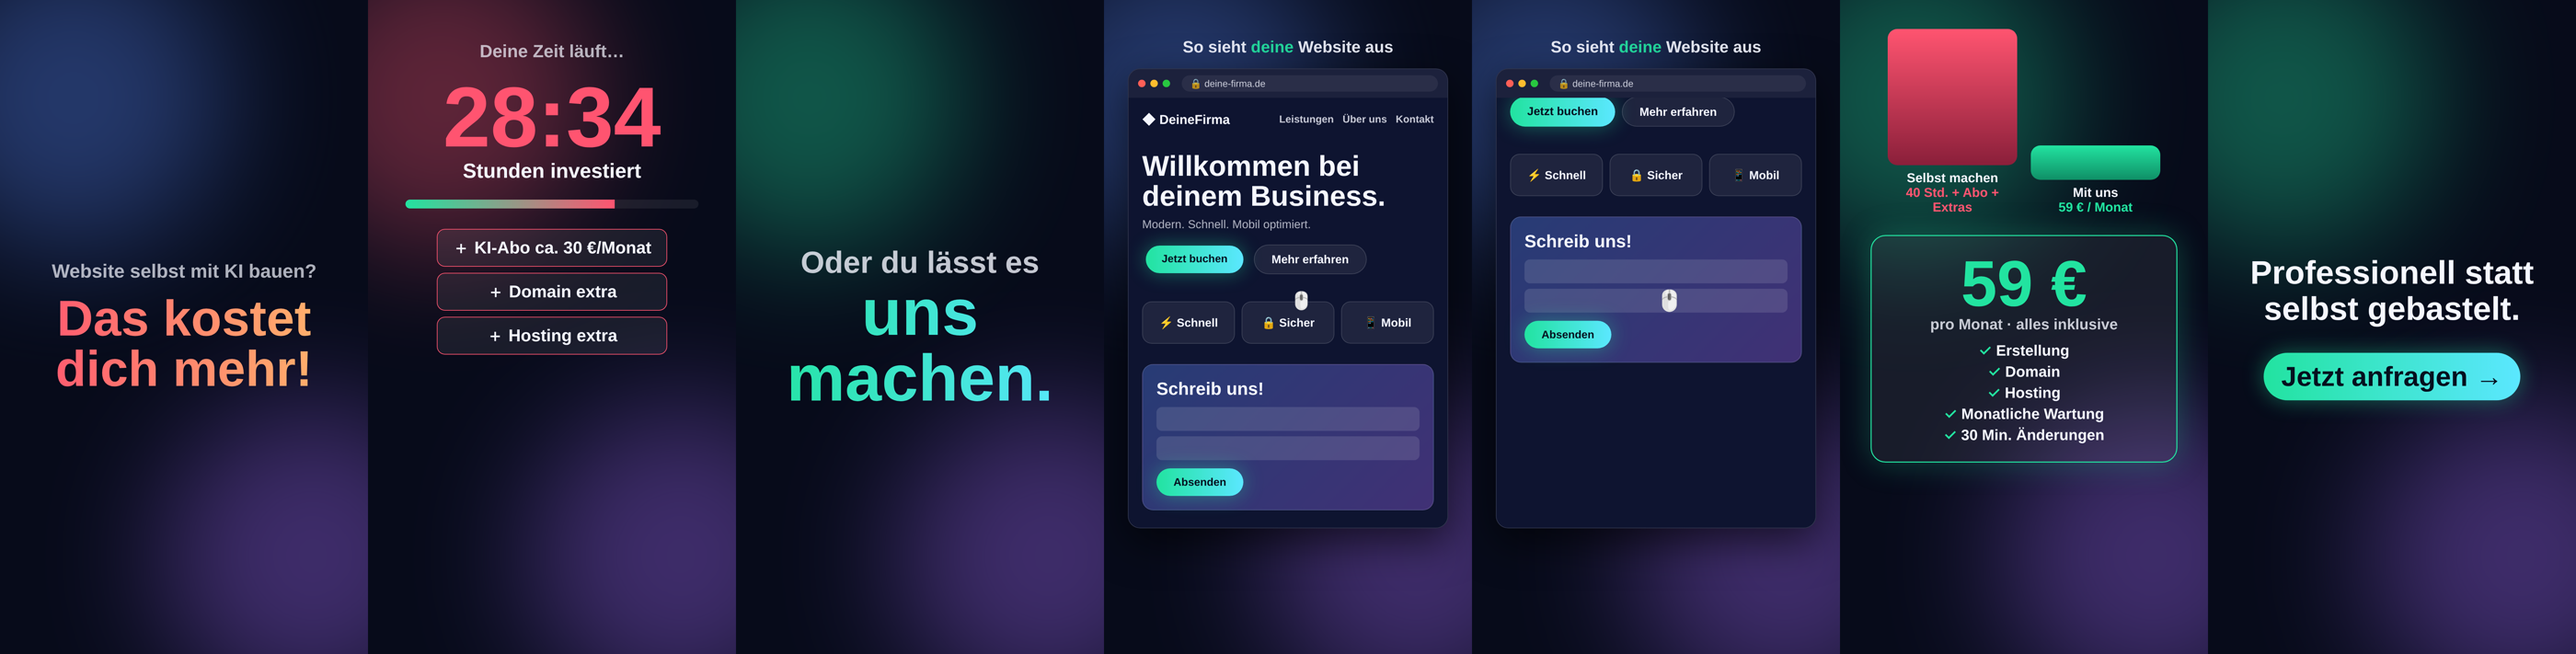
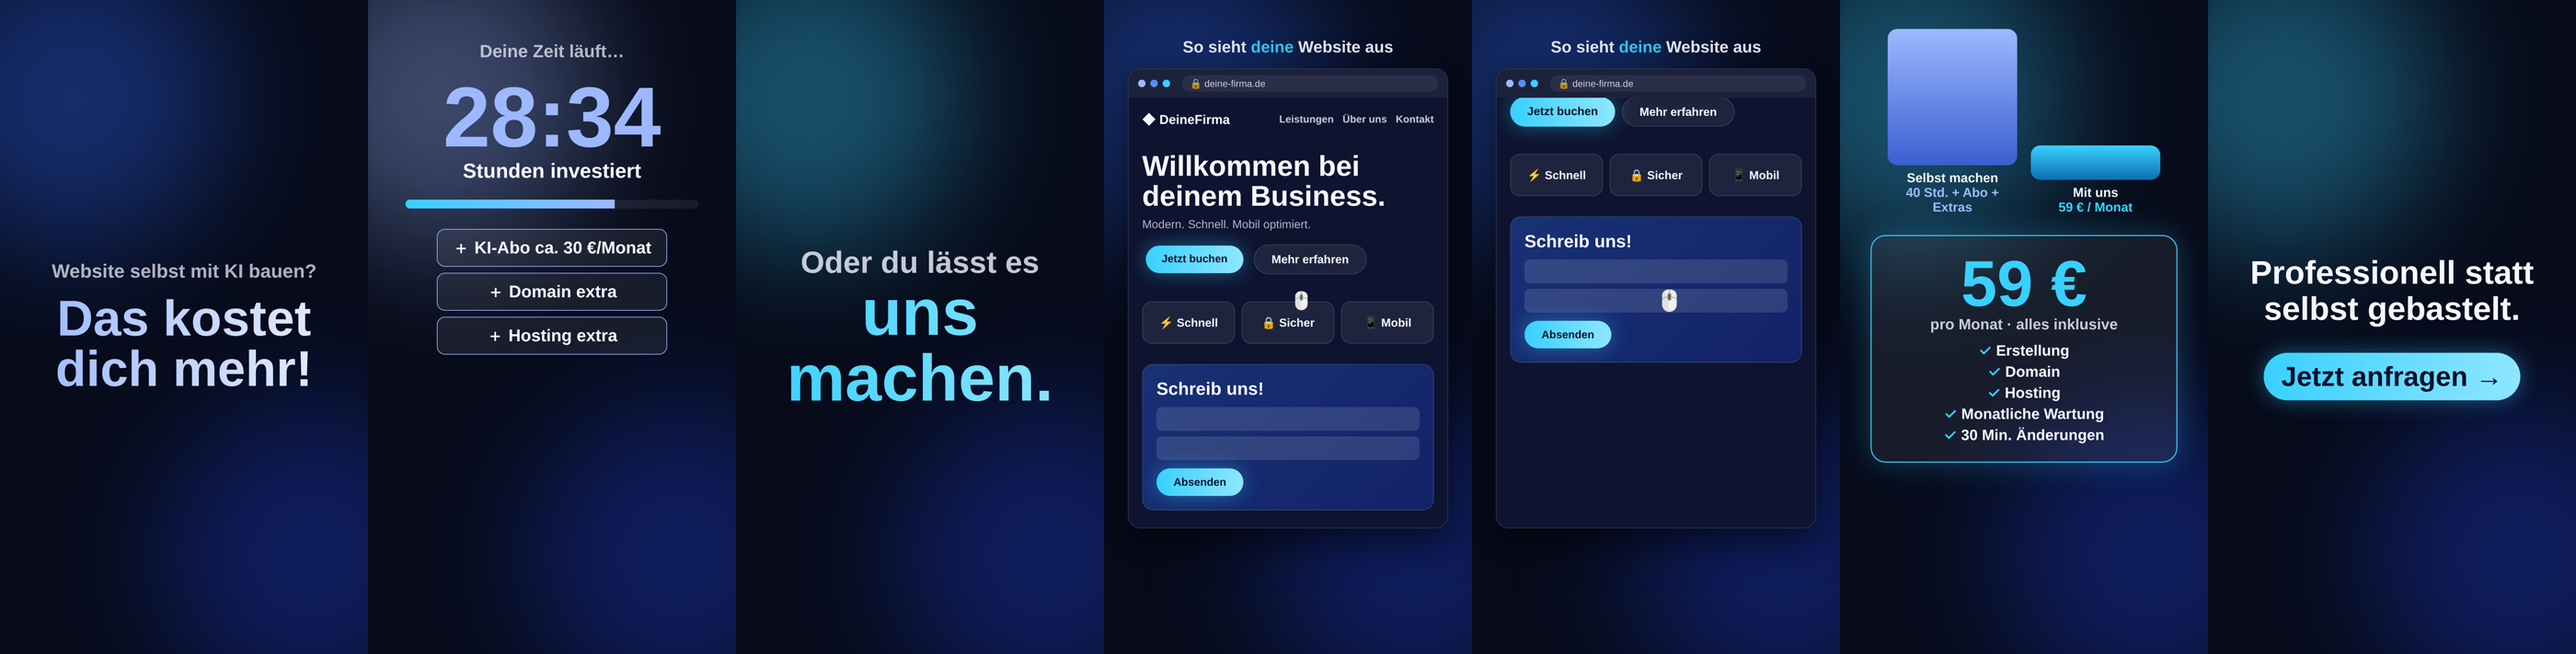
Use blue-only palette in Sales24 storyboard
Claude-Session: https://claude.ai/code/session_01JqCtx7NUwCh9f1E5B3tJS7

diff --git a/src/Sales24.tsx b/src/Sales24.tsx
@@ -1,6 +1,6 @@
 import {AbsoluteFill, Sequence, interpolate, spring, useCurrentFrame, useVideoConfig} from 'remotion';
 
-const C = {bg: '#070b1a', card: 'rgba(255,255,255,0.07)', line: 'rgba(255,255,255,0.14)', ok: '#22e3a0', bad: '#ff5470', blue: '#5b8cff', violet: '#a66bff', text: '#f4f6ff'};
+const C = {bg: '#070b1a', card: 'rgba(255,255,255,0.07)', line: 'rgba(255,255,255,0.14)', ok: '#38d0ff', bad: '#9db8ff', blue: '#2f6bff', violet: '#1d3fd8', text: '#f4f6ff'};
 const FONT = 'Helvetica, Arial, sans-serif';
 
 const useSpring = (delay = 0, damping = 14) => {
@@ -23,13 +23,13 @@ const Scene: React.FC<{children: React.ReactNode; glow?: string}> = ({children, 
 );
 
 const Btn: React.FC<{label: string; primary?: boolean; scale?: number; size?: number}> = ({label, primary, scale = 1, size = 44}) => (
-  <div style={{display: 'inline-block', fontSize: size, fontWeight: 800, padding: '22px 50px', borderRadius: 999, transform: `scale(${scale})`, color: primary ? '#06101f' : C.text, background: primary ? `linear-gradient(90deg, ${C.ok}, #5be7ff)` : C.card, border: primary ? 'none' : `2px solid ${C.line}`, boxShadow: primary ? `0 0 60px ${C.ok}66` : 'none'}}>{label}</div>
+  <div style={{display: 'inline-block', fontSize: size, fontWeight: 800, padding: '22px 50px', borderRadius: 999, transform: `scale(${scale})`, color: primary ? '#04112e' : C.text, background: primary ? `linear-gradient(90deg, ${C.ok}, #8fe6ff)` : C.card, border: primary ? 'none' : `2px solid ${C.line}`, boxShadow: primary ? `0 0 60px ${C.ok}66` : 'none'}}>{label}</div>
 );
 
 const Browser: React.FC<{children: React.ReactNode; url?: string; height?: number}> = ({children, url = 'deine-firma.de', height = 1000}) => (
   <div style={{width: 940, height, borderRadius: 36, background: '#0e1430', border: `2px solid ${C.line}`, boxShadow: '0 40px 120px rgba(0,0,0,.6)', overflow: 'hidden'}}>
     <div style={{height: 84, display: 'flex', alignItems: 'center', gap: 14, padding: '0 28px', background: 'rgba(255,255,255,.06)'}}>
-      {['#ff5f57', '#febc2e', '#28c840'].map((c) => <div key={c} style={{width: 22, height: 22, borderRadius: 11, background: c}} />)}
+      {['#9db8ff', '#5b8cff', '#38d0ff'].map((c) => <div key={c} style={{width: 22, height: 22, borderRadius: 11, background: c}} />)}
       <div style={{marginLeft: 20, flex: 1, height: 48, borderRadius: 24, background: 'rgba(255,255,255,.08)', fontSize: 28, display: 'flex', alignItems: 'center', padding: '0 24px', opacity: 0.8}}>🔒 {url}</div>
     </div>
     <div style={{position: 'relative', height: height - 84, overflow: 'hidden'}}>{children}</div>
@@ -44,7 +44,7 @@ const Hook: React.FC = () => {
     <Scene>
       <AbsoluteFill style={{justifyContent: 'center', alignItems: 'center', textAlign: 'center', padding: 70}}>
         <div style={{fontSize: 56, fontWeight: 700, opacity: 0.7, transform: `scale(${a})`}}>Website selbst mit KI bauen?</div>
-        <div style={{fontSize: 150, fontWeight: 900, lineHeight: 1, marginTop: 30, transform: `scale(${b})`, background: `linear-gradient(90deg, ${C.bad}, #ffb86b)`, WebkitBackgroundClip: 'text', color: 'transparent'}}>
+        <div style={{fontSize: 150, fontWeight: 900, lineHeight: 1, marginTop: 30, transform: `scale(${b})`, background: `linear-gradient(90deg, ${C.bad}, #e6efff)`, WebkitBackgroundClip: 'text', color: 'transparent'}}>
           Das kostet dich mehr!
         </div>
       </AbsoluteFill>
@@ -92,7 +92,7 @@ const Pivot: React.FC = () => {
     <Scene glow={C.ok}>
       <AbsoluteFill style={{justifyContent: 'center', alignItems: 'center', textAlign: 'center', padding: 70}}>
         <div style={{fontSize: 90, fontWeight: 700, opacity: 0.8}}>Oder du lässt es</div>
-        <div style={{fontSize: 190, fontWeight: 900, lineHeight: 1, transform: `scale(${a})`, background: `linear-gradient(90deg, ${C.ok}, #5be7ff)`, WebkitBackgroundClip: 'text', color: 'transparent'}}>
+        <div style={{fontSize: 190, fontWeight: 900, lineHeight: 1, transform: `scale(${a})`, background: `linear-gradient(90deg, ${C.ok}, #8fe6ff)`, WebkitBackgroundClip: 'text', color: 'transparent'}}>
           uns machen.
         </div>
       </AbsoluteFill>
@@ -158,11 +158,11 @@ const Compare: React.FC = () => {
       <AbsoluteFill style={{alignItems: 'center', padding: '110px 60px', textAlign: 'center'}}>
         <div style={{display: 'flex', gap: 40, alignItems: 'flex-end', height: 520}}>
           <div style={{width: 380}}>
-            <div style={{height: 400 * diy, borderRadius: 28, background: `linear-gradient(180deg, ${C.bad}, #8a1f3a)`}} />
+            <div style={{height: 400 * diy, borderRadius: 28, background: `linear-gradient(180deg, ${C.bad}, #3a5fd0)`}} />
             <div style={{fontSize: 38, fontWeight: 800, marginTop: 16}}>Selbst machen<br /><span style={{color: C.bad}}>40 Std. + Abo + Extras</span></div>
           </div>
           <div style={{width: 380}}>
-            <div style={{height: 400 * us * 1.4, borderRadius: 28, background: `linear-gradient(180deg, ${C.ok}, #0f8f66)`}} />
+            <div style={{height: 400 * us * 1.4, borderRadius: 28, background: `linear-gradient(180deg, ${C.ok}, #0b6fb0)`}} />
             <div style={{fontSize: 38, fontWeight: 800, marginTop: 16}}>Mit uns<br /><span style={{color: C.ok}}>59 € / Monat</span></div>
           </div>
         </div>
